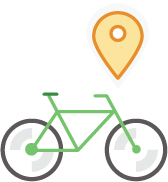
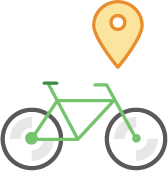
sample card updates and text change

diff --git a/index.html b/index.html
@@ -601,7 +601,7 @@ j=d.createElement(s),dl=l!='dataLayer'?'&l='+l:'';j.async=true;j.src=
                       <div class = "button clear footer readResearchButton">CASE STUDY</div>
                     </a>
                     <p>This tool uses data from the five-year (2014–18) American Community Survey to assess spatial and demographic disparities in your data. Once a user uploads data, the tool geocodes the dataset to a US city and compares the distribution of the uploaded data with the distribution of baseline variables from the ACS. For more information about the specific methodology and variables used, please see the technical appendix.</p>
-                    <p>For the demographic disparity chart, we use &ldquo;Latinx&rdquo; to refer to people of Latino or Hispanic origin as asked by the Census. We recognize that this gender-neutral term may not be the preferred identifier for many, but we use it to remain inclusive of gender non-conforming and non-binary people.</p>
+                    <p>For the demographic disparity chart, we use &ldquo;Latinx&rdquo; to refer to people of Latino or Hispanic origin as asked by the Census. We recognize that this gender-neutral term may not be the preferred identifier for many, but we use it to remain inclusive of gender non-conforming and non-binary people. We use White, Black, and Asian to refer to non-Hispanic White, Black, and Asian populations.</p>
                     <p>This tool is part of a larger project to <a href = "https://www.urban.org/policy-centers/research-action-lab/projects/accelerating-innovation-inclusion" target = "_blank">help cities more equitably use data and technology</a>. Through 40 interviews and a roundtable with city leaders, we identified key questions cities should ask to center equity in technology programs and best practices to answer those questions, which we have documented in <a href = "https://apps.urban.org/features/how-to-create-equitable-technology-programs" target = "_blank"><em>Creating Equitable Technology Programs: A Guide for Cities</em></a>. Our research identified the <a href = "https://www.urban.org/urban-wire/make-smart-cities-more-inclusive-leaders-need-better-tools-and-data" target = "_blank">need for resources</a> to facilitate regular and rigorous examination of the representativeness of data powering city decisionmaking and the distribution of technology, and other, programs. That need was a driving force behind this tool.</p>
 
                     <p>For help using this tool or for guidance designing and implementing equitable technology programs, contact  <a href = "mailto:anarayanan@urban.org">anarayanan@urban.org</a>.</p>

diff --git a/js/resultsPage.js b/js/resultsPage.js
@@ -12,6 +12,7 @@ function populateSummaries(messages, params){
         .text("SUMMARY: ")
     headName.append("span")
         .html(function(){
+            console.log(messages)
             if(datasetType == "user"){
                 return "Your data from " + messages.updates.city_used
             }else{
@@ -33,8 +34,9 @@ function populateSummaries(messages, params){
     var sumSection = container.append("div").attr("id", "sumSectionContainer")
     var imgContainer = sumSection.append("div")
         .attr("class", "sumSectionImgContainer")
+    var imgClass = (getDatasetType() == "user") ? "user" : getSampleDatasetSlug();
     imgContainer.append("img")
-        .attr("class", "sumSectionImg")
+        .attr("class", "sumSectionImg " + imgClass)
         .attr("src", function(){
             if(getDatasetType() == "user"){
                 return "images/upload-grey.png"

diff --git a/js/callAPI.js b/js/callAPI.js
@@ -288,6 +288,7 @@ function checkStatus(status){
         d3.select("#statusDone").style("display","block")
     }
     else{
+        console.log(status)
         d3.selectAll(".loaderSectionStatus").style("display","none")
         d3.select("#statusProcessing").style("display","block")
         var processed = (status.formdata.updates.num_rows_processed == null) ? 0 : status.formdata.updates.num_rows_processed

diff --git a/css/results.css b/css/results.css
@@ -178,6 +178,17 @@
     width: 70px;
     margin-right: 50px;
 }
+.sumSectionImg.three11{
+    width: 125px;
+}
+.sumSectionImg.bike{
+    width: 71px;
+}
+.sumSectionImg.user{
+    top: -47px;
+    width: 60px;
+}
+
 .sumSectionText{
     display: none;
 }
